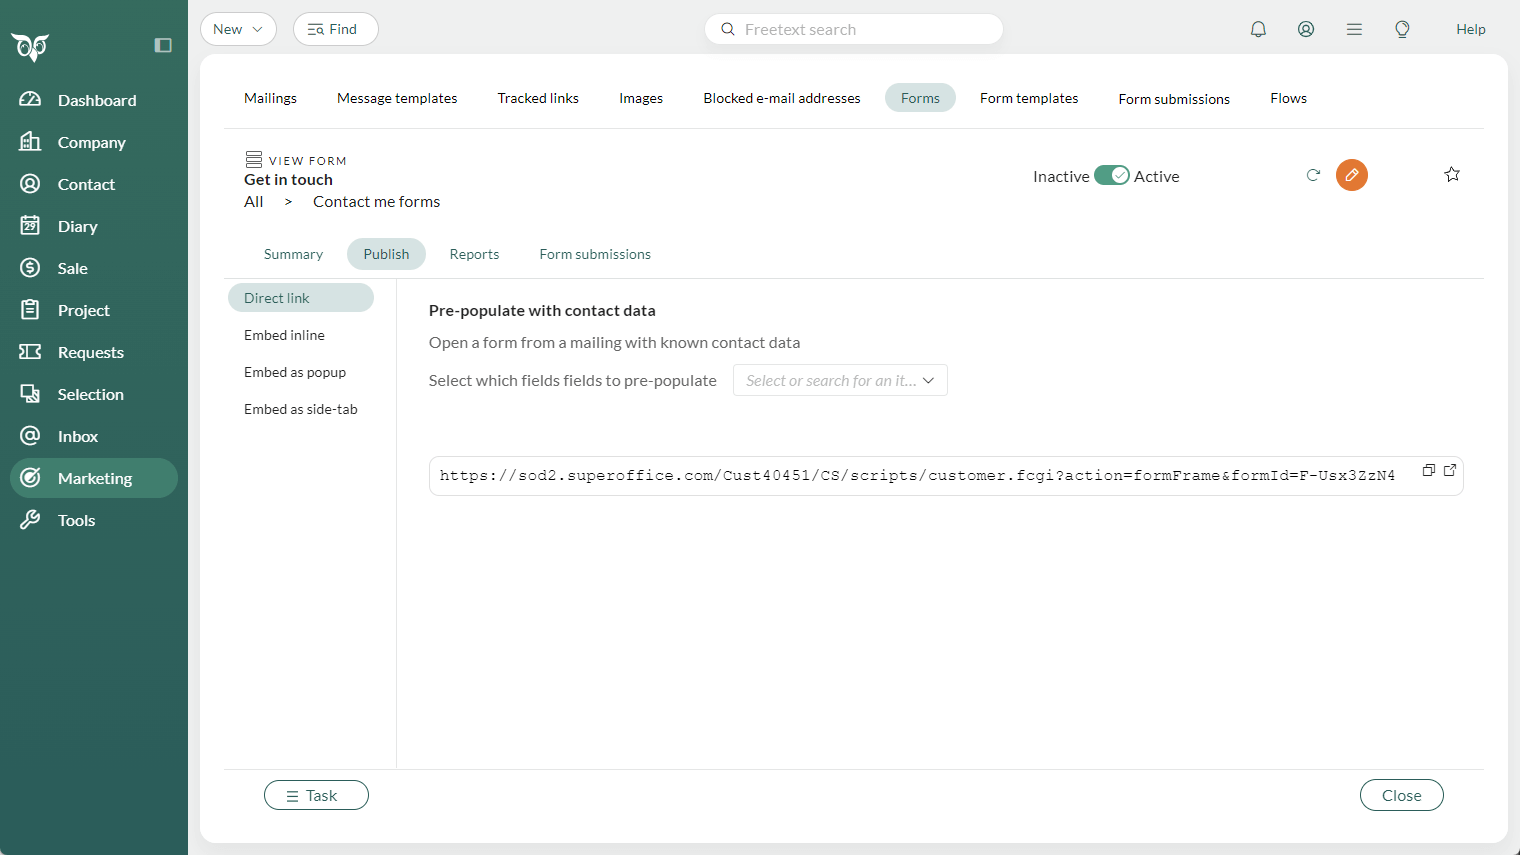
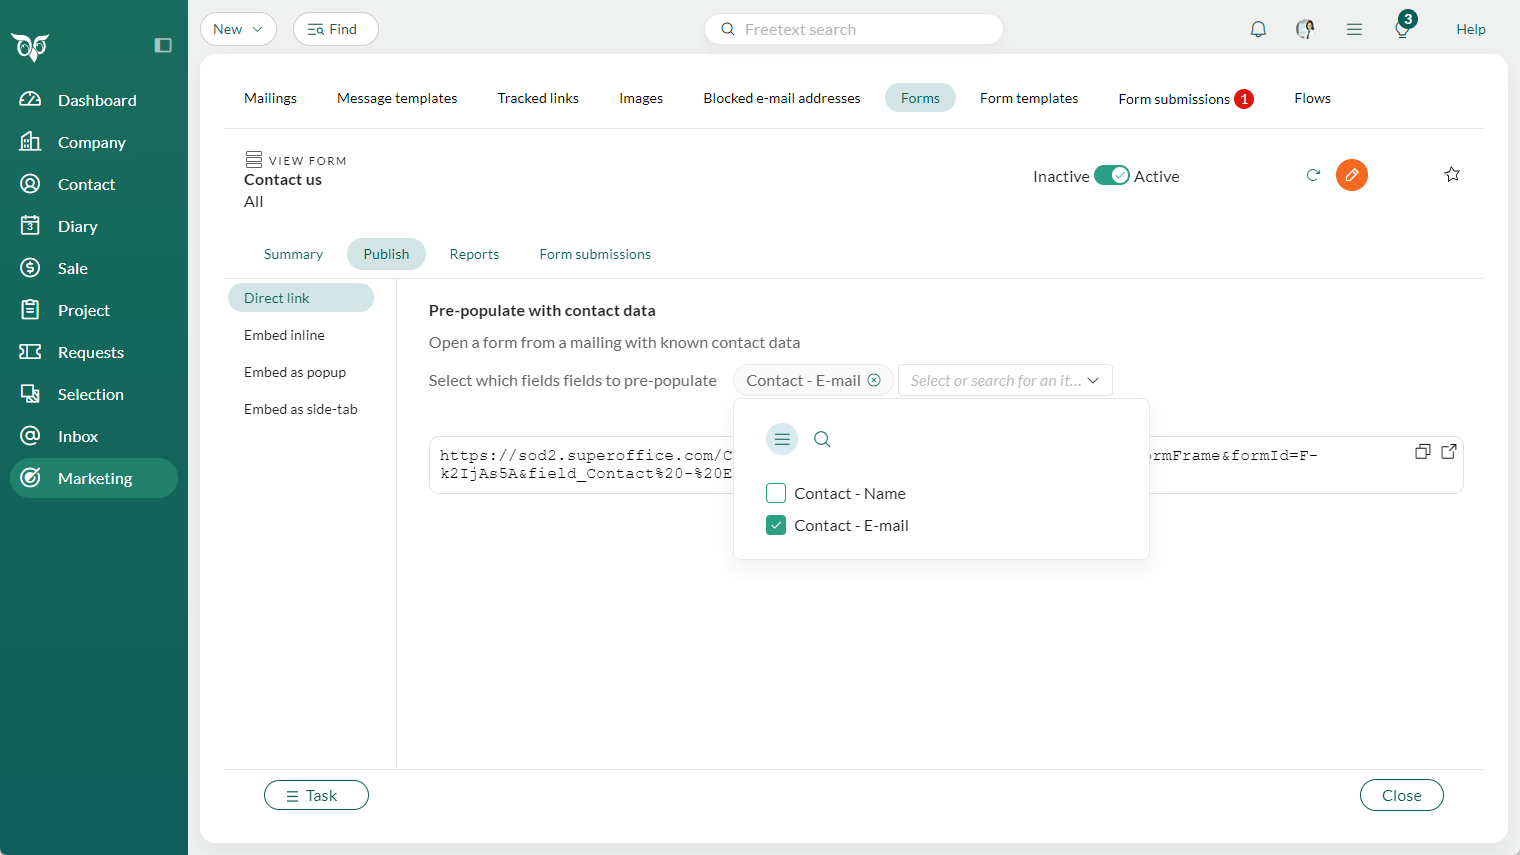
#2299 Final touches on the makreting text

diff --git a/release-notes/11/marketing/11.5-update.md b/release-notes/11/marketing/11.5-update.md
@@ -2,7 +2,7 @@
 uid: news-marketing-11.5
 title: Marketing 11.5 update
 description: Release notes. What's new SuperOffice Marketing in 11.5
-keywords: Marketing, forms, direct link, publish
+keywords: Marketing, forms, direct link, publish, pre-populated fields
 author: SuperOffice AS – Product and Engineering
 date: 10.13.2025
 version: 11.5
@@ -18,11 +18,9 @@ audience_tooltip: SuperOffice CRM
 
 ## Marketing Form – Pre-populate fields from a mailing
 
-When working with forms, it’s important to think not only about collecting submissions, but also about how they link to your existing and new contacts.
+With **pre-populate fields**, you can select the fields from the drop-down menu, and when contact data is already known from a mailing, those fields will be filled in **automatically**. This saves your recipients time, reduces friction, and increases the likelihood they’ll complete the form.
 
-With **pre-populate fields**, you can select the fields from the drop-down menu, and when contact data is already known (for example, from a mailing), those fields will be filled in **automatically**. This saves your recipients time, reduces friction, and increases the likelihood they’ll complete the form.
-
-It also makes handling **form submissions** easier. Since the contact’s email address is already stored in your SuperOffice solution, you can even choose to process submissions automatically when the submitter is recognised.
+**Submissions** are also easier to process, as responses can be linked directly to existing contacts in your SuperOffice solution, ensuring better data quality with less duplicates.
 
 ![Marketing Form shows the direct link for Publish -screenshot][img1]
 
